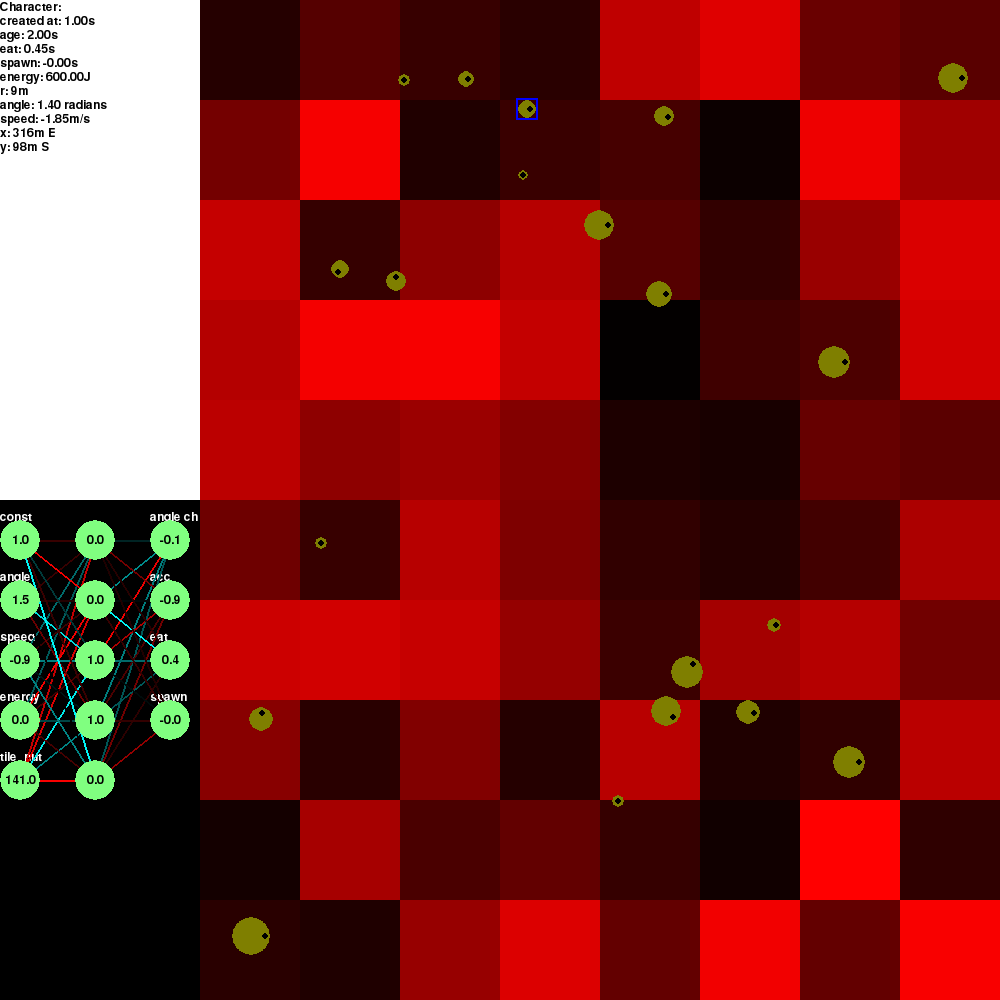
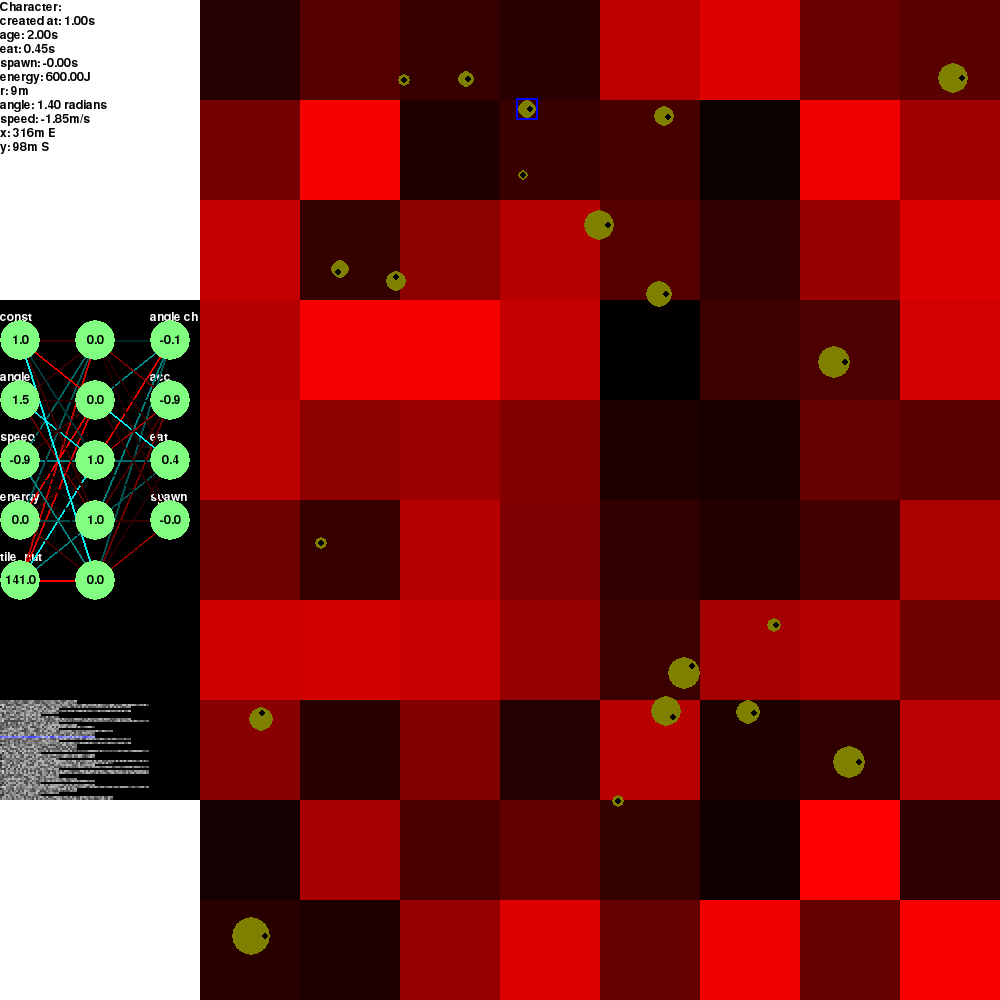
Add a genome view sorted by oldest (best) characters.

Changed region(s): [[0.0, 0.279, 0.217, 1.0], [0.682, 0.651, 0.713, 0.682]]

diff --git a/novel-evolve/popview.py b/novel-evolve/popview.py
@@ -1,0 +1,143 @@
+import operator
+
+import pygame
+from pygame.locals import *
+
+import viewport
+import characters
+
+class GenePopView(viewport.Viewport):
+
+    def __init__(self, parent, viewport_rect):
+        super(GenePopView, self).__init__(
+            parent, viewport_rect, viewport_rect.w, 100)
+        self.font = pygame.font.Font(None, 18)
+        self.xwidth = 2
+        self.ywidth = 2
+        self.sorted_chars = []
+
+    def draw(self):
+        self.canvas.fill((0, 0, 0))
+        off = 0
+        self.sorted_chars = sorted(
+            self.parent.world.allcharacters,
+            key=operator.attrgetter('_created'))
+        xwidth = self.xwidth
+        ywidth = self.ywidth
+        for character in self.sorted_chars:
+            g = character._genome
+            s = selected = (self.parent.world.active_item is character) * 255
+            xoff = 0
+
+            colour = int(g.radius / 30. * 255)
+            start = (xoff, off)
+            xoff += xwidth
+            end = (xoff, off)
+            pygame.draw.line(self.canvas, (colour, colour, s or colour),
+                             start, end, ywidth)
+
+            colour = int(g.hidden_neurons / 10. * 255)
+            start = (xoff, off)
+            xoff += xwidth
+            end = (xoff, off)
+            pygame.draw.line(self.canvas, (colour, colour, s or colour),
+                                           start, end, ywidth)
+
+            # This style should show two creatures 'matching up' even if one
+            # of them had their whole length of genome changed by a mutated
+            # hidden_neurons gene.
+            for i in range(g.hidden_neurons):
+                for j in range(g._inputs):
+                    weight = g.hidden0_weights[i * g._inputs + j]             
+                    colour = int(characters.sigmoid(weight) * 255)
+                    start = (xoff, off)
+                    xoff += xwidth
+                    end = (xoff, off)
+                    pygame.draw.line(
+                        self.canvas, (colour, colour, s or colour),
+                        start, end, ywidth)
+                for j in range(g._outputs):
+                    weight = g.hidden0_weights[i * g._outputs + j]             
+                    colour = int(characters.sigmoid(weight) * 255)
+                    start = (xoff, off)
+                    xoff += xwidth
+                    end = (xoff, off)
+                    pygame.draw.line(
+                        self.canvas, (colour, colour, s or colour),
+                        start, end, ywidth)
+
+            off += ywidth
+            if off > 100:
+                break
+
+        self.image.blit(self.canvas, self.drag_offset)
+
+    def onclick(self, relpos, button):
+        print relpos[1], self.ywidth,
+        sorted_chars_idx = relpos[1] // self.ywidth
+        print sorted_chars_idx
+        if sorted_chars_idx < len(self.sorted_chars):
+            self.parent.world.active_item = self.sorted_chars[sorted_chars_idx]
+
+class TimePopView(viewport.Viewport):
+
+    def __init__(self, parent, viewport_rect):
+        super(TimePopView, self).__init__(
+            parent, viewport_rect, viewport_rect.w, 100)
+        self._text = ''
+        self._text_changed = True
+        self.font = pygame.font.Font(None, 18)
+    
+    def draw(self):
+        if self._text_changed:
+            self.canvas.fill((255, 255, 255))
+            s = str(self._text)
+            off = 0
+            for line in s.split('\n'):
+                text = self.font.render(line, True, (0, 0, 0))
+                rect = text.get_rect()
+                self.canvas.blit(text, (0, 0 + off))
+                off += rect.h
+            self.image.blit(self.canvas, self.drag_offset)
+            self._text_changed = False
+
+    @property
+    def text(self):
+        raise NotImplementedError()
+    @text.setter
+    def text(self, value):
+        if value != self._text:
+            self._text_changed = True
+        self._text = value
+
+class AgePopView(viewport.Viewport):
+
+    def __init__(self, parent, viewport_rect):
+        super(AgePopView, self).__init__(
+            parent, viewport_rect, viewport_rect.w, 100)
+        self._text = ''
+        self._text_changed = True
+        self.font = pygame.font.Font(None, 18)
+    
+    def draw(self):
+        if self._text_changed:
+            self.canvas.fill((255, 255, 255))
+            s = str(self._text)
+            off = 0
+            for line in s.split('\n'):
+                text = self.font.render(line, True, (0, 0, 0))
+                rect = text.get_rect()
+                self.canvas.blit(text, (0, 0 + off))
+                off += rect.h
+            self.image.blit(self.canvas, self.drag_offset)
+            self._text_changed = False
+
+    @property
+    def text(self):
+        raise NotImplementedError()
+    @text.setter
+    def text(self, value):
+        if value != self._text:
+            self._text_changed = True
+        self._text = value
+

diff --git a/novel-evolve/window.py b/novel-evolve/window.py
@@ -7,6 +7,7 @@ import group
 import world
 import infopane
 import brainview
+import popview
 
 class Window(object):
     """Logical representation of the application window."""
@@ -22,11 +23,18 @@ class Window(object):
             self, Rect(200, 0, 1000 - 200, 1000), world_w, world_h)
         self.allsprites.add(self.world)
 
-        self.infopane = infopane.InfoPane(self, Rect(0, 0, 200, 500))
+        self.infopane = infopane.InfoPane(self, Rect(0, 0, 200, 300))
         self.allsprites.add(self.infopane)
 
-        self.brainview = brainview.BrainView(self, Rect(0, 500, 200, 500))
+        self.brainview = brainview.BrainView(self, Rect(0, 300, 200, 400))
         self.allsprites.add(self.brainview)
+
+        popview_ = popview.GenePopView(self, Rect(0, 700, 200, 100))
+        self.allsprites.add(popview_)
+        popview_ = popview.TimePopView(self, Rect(0, 800, 200, 100))
+        self.allsprites.add(popview_)
+        popview_ = popview.AgePopView(self, Rect(0, 900, 200, 100))
+        self.allsprites.add(popview_)
 
     def onresize(self, window_w, window_h):
         self.background = pygame.Surface(self.screen.get_size()).convert()

diff --git a/novel-evolve/brainview.py b/novel-evolve/brainview.py
@@ -12,7 +12,7 @@ class BrainView(viewport.Viewport):
 
     def __init__(self, parent, viewport_rect):
         super(BrainView, self).__init__(
-            parent, viewport_rect, viewport_rect.w, viewport_rect.h)
+            parent, viewport_rect, viewport_rect.w, 1000)
         self._brain = None
         self.font = pygame.font.Font(None, 18)
         self.active_item = None

diff --git a/novel-evolve/infopane.py b/novel-evolve/infopane.py
@@ -8,7 +8,7 @@ class InfoPane(viewport.Viewport):
 
     def __init__(self, parent, viewport_rect):
         super(InfoPane, self).__init__(
-            parent, viewport_rect, viewport_rect.w, viewport_rect.h)
+            parent, viewport_rect, viewport_rect.w, 1000)
         self._text = ''
         self._text_changed = True
         self.font = pygame.font.Font(None, 18)
